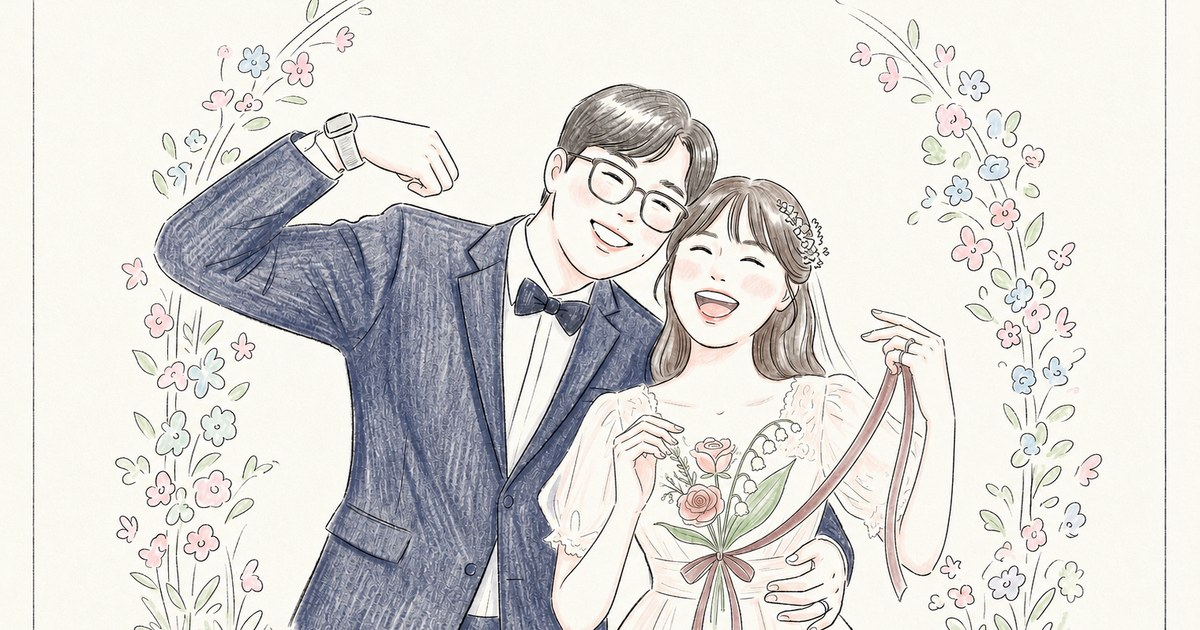
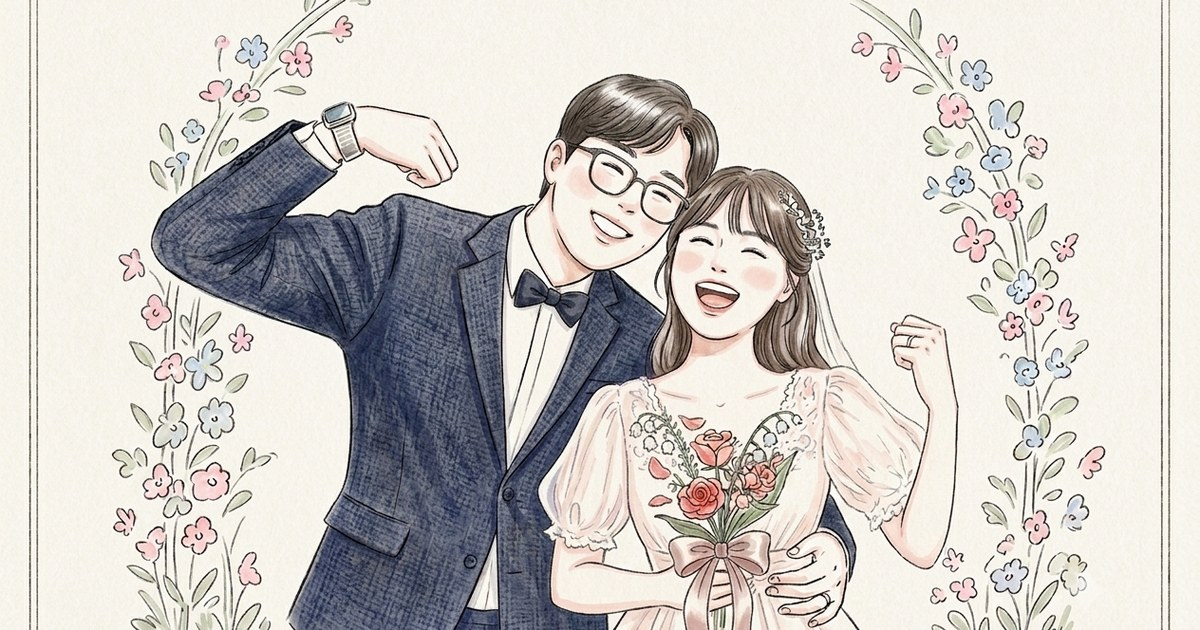
Add files via upload

diff --git a/index.html b/index.html
@@ -8,9 +8,9 @@
 <meta property="og:type" content="website">
 <meta property="og:site_name" content="원우와 혜림">
 <meta property="og:title" content="원우와 혜림, 결혼합니다">
-<meta property="og:description" content="2026. 12. 19 SAT PM 1:30 · 빌라드지디 수서">
+<meta property="og:description" content="2026. 12. 19(토) 오후 1시 30분 · 빌라드지디 수서">
 <meta property="og:url" content="https://songej1997.github.io/wedding/">
-<meta property="og:image" content="https://songej1997.github.io/wedding/og-image.jpg">
+<meta property="og:image" content="https://songej1997.github.io/wedding/og-image.jpg?v=2">
 <meta property="og:image:width" content="1200">
 <meta property="og:image:height" content="630">
 <meta name="twitter:card" content="summary_large_image">
@@ -108,11 +108,8 @@ section{ padding: 64px 28px; position:relative; }
 }
 
 .script-headline{
-  font-family: var(--font-en);
-  font-style: italic;
-  font-weight: 500;
-  font-size: 34px;
-  letter-spacing: .02em;
+  font-family: var(--font-script);
+  font-size: 46px;
   text-align:center;
   color: var(--wine);
   line-height:1.2;
@@ -831,7 +828,7 @@ section{ padding: 64px 28px; position:relative; }
 .stage[data-state="unfold"] .letter-paper > *, .stage[data-state="open"] .letter-paper > *{ opacity:1; }
 
 .lt-name{ font-family:var(--font-serif); font-weight:500; font-size:19px; line-height:1.4; color:var(--wine); max-width:100%; overflow-wrap:anywhere; margin-bottom:2px; }
-.lt-invited{ font-family:var(--font-en); font-style:italic; font-weight:500; font-size:30px; letter-spacing:.02em; line-height:1.2; color:var(--wine); white-space:nowrap; }
+.lt-invited{ font-family:var(--font-script); font-size:52px; line-height:1; color:var(--wine); white-space:nowrap; }
 .lt-heart{ width:15px; height:15px; color:var(--gold); margin-top:8px; }
 .lt-body{ margin-top:20px; font-family:var(--font-serif); font-size:14px; line-height:1.95; color:var(--ink); }
 .lt-body div{ white-space:nowrap; }
